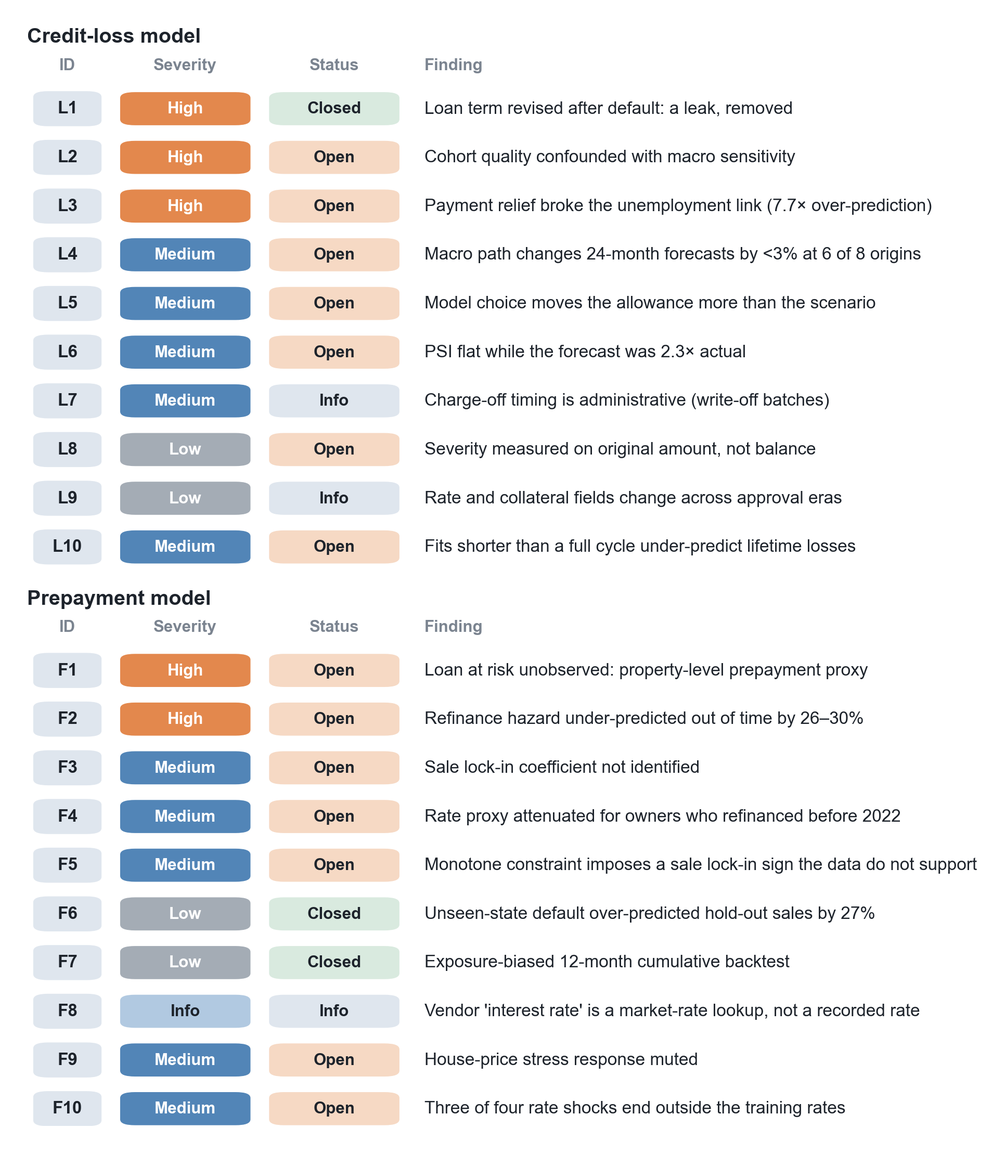
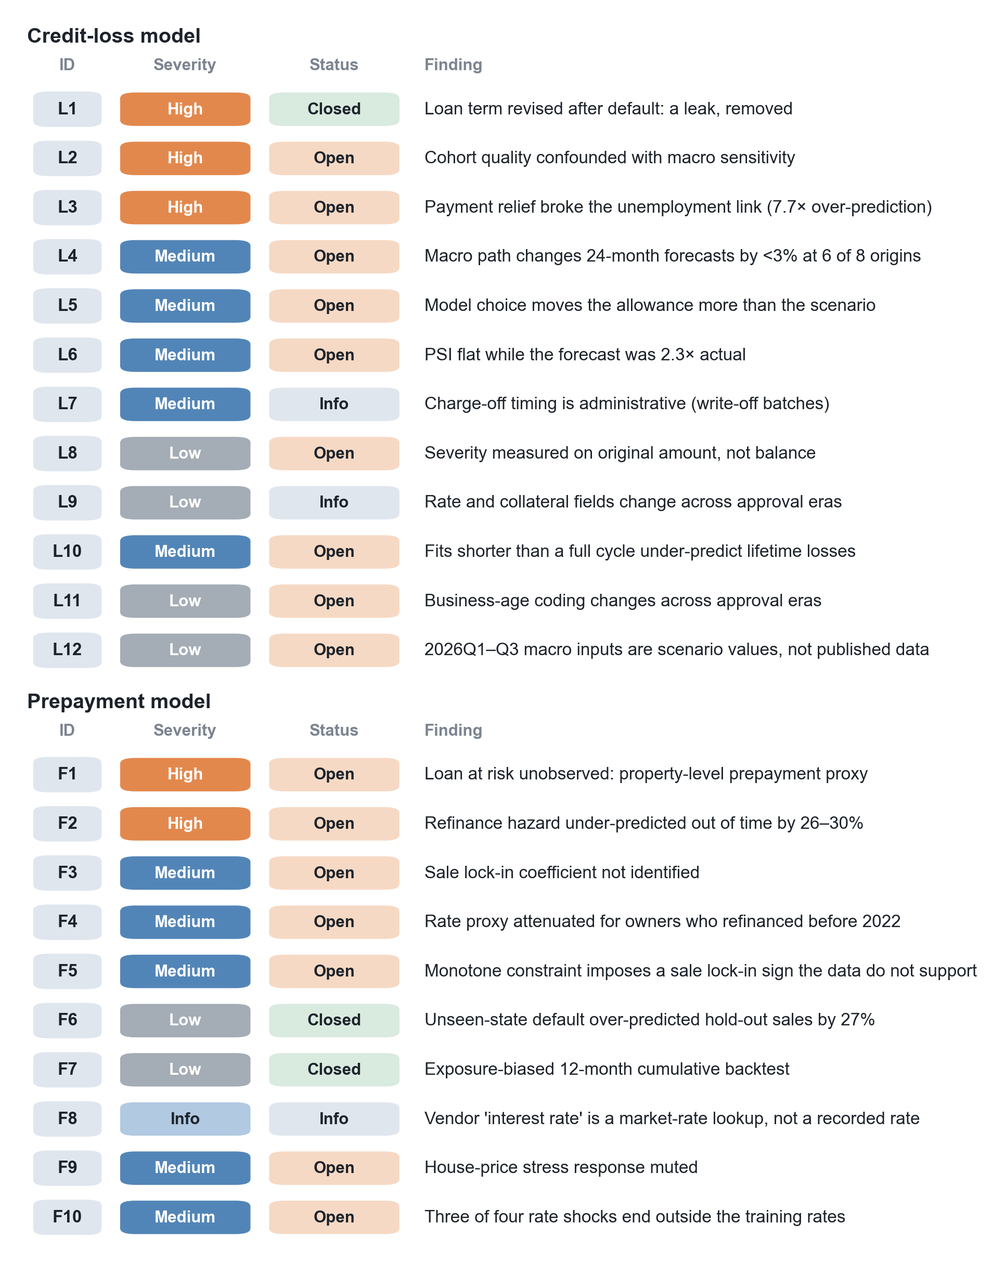
Credit-loss study: rule outcomes across candidates, relief-overlay scope, two new findings
- README and report: out-of-time ratio reported across candidates (0.72-0.83; era model 0.81 with
  the relief overlay, 0.74 without), and that no single candidate meets both pre-set rules
- Report: overlay O1 also shifts inputs to 2023Q3 and uses hindsight at the 2019 origin; sampling
  design behind the intercept correction; gross write-offs; disposition: research use only
- New findings L11 (business-age coding changes across approval eras) and L12 (2026Q1-Q3 macro
  inputs are scenario values), from scripts/42e_p3_input_checks.py; deviations log notes
- Tests for the new statements; Figure 9 redrawn with twelve credit-loss findings

Changed region(s): [[0.0311, 0.0, 0.9627, 0.995], [0.8075, 0.9329, 0.8385, 0.9639], [0.7143, 0.9329, 0.7453, 0.9639]]

diff --git a/tests/test_credit_loss.py b/tests/test_credit_loss.py
@@ -100,6 +100,16 @@ def test_remediation_rounds_as_reported():
     assert s2["M1v +O1"]["within_25pct"] == 4 and s2["M1v +O1"]["oot_excl_relief"] == pytest.approx(0.81, abs=0.005)
     assert s2["R2a +O1"]["within_25pct"] == 5 and s2["R2a +O1"]["oot_excl_relief"] == pytest.approx(0.73, abs=0.005)
     assert s2["M1v +O1"]["mean_abs_log_ratio"] == pytest.approx(0.357, abs=5e-4)
+    # no single candidate meets both rules
+    assert not any(v["rule_i"] and v["rule_ii"] for k, v in s2.items() if isinstance(v, dict) and "rule_i" in v)
+    with_o1 = [v["oot_excl_relief"] for k, v in s2.items() if k.endswith("+O1")]
+    assert min(with_o1) == pytest.approx(0.72, abs=0.005) and max(with_o1) == pytest.approx(0.83, abs=0.005)
+    assert s2["M1v"]["oot_excl_relief"] == pytest.approx(0.74, abs=0.005)  # same fit without O1: the gap is the overlay
+    m1 = json.loads((P3 / "backtest_summary.json").read_text())["M1"]["mean_abs_log_ratio"]
+    assert m1 == pytest.approx(0.68, abs=0.005) and s2["R2a +O1"]["mean_abs_log_ratio"] / m1 < 0.5
+    oot = _csv("r2_oot_eval.csv")
+    whole = oot[oot.overlay & (oot.model == "M1v") & (oot.window == "2020-01..2026-09")].pred_over_actual.iloc[0]
+    assert whole == pytest.approx(0.91, abs=0.005)
     s3 = json.loads((P3 / "r3_summary.json").read_text())
     assert s3["adopted_for_lifetime_allowance"] is None
     assert [s3[m]["within_25pct"] for m in ("M0", "M1", "M1v", "R2a", "R2b")] == [2, 0, 3, 3, 4]
@@ -108,6 +118,25 @@ def test_remediation_rounds_as_reported():
     assert late.min() == pytest.approx(0.94, abs=0.005) and late.max() == pytest.approx(1.22, abs=0.005)
     early = lt[lt.origin.isin(["2009-12", "2011-12", "2013-12"]) & lt.model.isin(["M1", "M1v", "R2a", "R2b"])].dollar_ratio
     assert (early < 0.7).sum() == 11
+
+
+def test_input_checks_added_at_review():
+    """L11: business-age coding by approval year; L12: 2026Q1-Q3 scenario inputs against published series."""
+    b = _csv("business_age_by_approval_fy.csv").set_index("approval_fy")
+    assert b.loc[2000:2004, "startup"].max() < 0.01 and b.loc[2012:, "startup"].min() == pytest.approx(0.176, abs=5e-4)
+    assert b.loc[2012:, "startup"].max() == pytest.approx(0.215, abs=5e-4)
+    assert b.loc[2000:2008, "new"].min() == pytest.approx(0.236, abs=5e-4) and b.loc[2000:2008, "new"].max() == pytest.approx(0.311, abs=5e-4)
+    assert b.loc[2019, "new"] == 0 and b.loc[2021:, "new"].min() == pytest.approx(0.130, abs=5e-4) and b.loc[2021:, "new"].max() == pytest.approx(0.180, abs=5e-4)
+    assert b.loc[2018, "unknown"] == pytest.approx(0.118, abs=5e-4) and b.loc[2019, "unknown"] == pytest.approx(0.136, abs=5e-4)
+    assert b.loc[2021:, "unknown"].max() < 0.01
+    m = _csv("macro_2026_scenario_vs_published.csv").set_index(["source", "quarter"])
+    assert (m.loc["fed_baseline", "unemployment"] == 4.6).all()
+    pub = m.loc["published_fred"]
+    assert pub.unemployment.min() == pytest.approx(4.13, abs=0.005) and pub.unemployment.max() == pytest.approx(4.33, abs=0.005)
+    assert m.loc["fed_baseline", "prime"].min() == 6.2 and m.loc["fed_baseline", "prime"].max() == 6.6
+    assert pub.prime.round(1).unique().tolist() == [6.8]
+    sa = m.loc["fed_severely_adverse", "unemployment"]
+    assert sa.min() == 5.9 and sa.max() == 8.2
 
 
 def test_allowance_after_remediation():

diff --git a/scripts/42e_p3_input_checks.py b/scripts/42e_p3_input_checks.py
@@ -1,0 +1,39 @@
+"""Credit-loss study: two input checks added at review (findings L11 and L12); no model is refitted.
+
+L11  business-age categories by approval fiscal year (the coding changes across eras, and the field is a predictor).
+L12  macro inputs for 2026Q1-Q3: the Fed 2026 files end their history in 2025Q4, so these quarters carry scenario
+     values inside the estimation window; compared here with the published series (FRED UNRATE, DPRIME, DGS10).
+Writes reports/p3/business_age_by_approval_fy.csv and reports/p3/macro_2026_scenario_vs_published.csv.
+"""
+import sys; sys.path.insert(0, "scripts"); sys.path.insert(0, "src")
+from pathlib import Path
+import pandas as pd
+from _paths import WORK, REPORTS
+
+R = REPORTS / "p3"
+loans = pd.read_parquet(WORK / "p3" / "loans.parquet", columns=["approval_fy", "bage"])
+t = pd.crosstab(loans.approval_fy, loans.bage, normalize="index").round(3)
+t.insert(0, "loans", loans.approval_fy.value_counts().sort_index())
+t.to_csv(R / "business_age_by_approval_fy.csv")
+
+FED, FRED = Path("data_external/fed2026"), Path("data_external/fred_credit")
+rows = []
+for scen, f in [("baseline", "2026_Final_Supervisory_Baseline_Domestic.csv"),
+                ("severely_adverse", "2026_Final_Supervisory_Severely_Adverse_Domestic.csv")]:
+    d = pd.read_csv(FED / f)
+    d = d[d.Date.isin(["2026 Q1", "2026 Q2", "2026 Q3"])]
+    for _, r in d.iterrows():
+        rows.append({"quarter": r.Date.replace(" ", ""), "source": f"fed_{scen}", "unemployment": r["Unemployment rate"],
+                     "prime": r["Prime rate"], "treasury_10y": r["10-year Treasury yield"]})
+pub = {}
+for sid, col in [("UNRATE", "unemployment"), ("DPRIME", "prime"), ("DGS10", "treasury_10y")]:
+    s = pd.read_csv(FRED / f"{sid}.csv"); s.columns = ["date", "v"]
+    s["v"] = pd.to_numeric(s.v, errors="coerce"); s["date"] = pd.to_datetime(s.date)
+    s = s[(s.date >= "2026-01-01") & (s.date < "2026-10-01")]
+    pub[col] = s.groupby(s.date.dt.to_period("Q")).v.mean().round(2)
+p = pd.DataFrame(pub); p.index = p.index.astype(str)
+for q, r in p.iterrows():
+    rows.append({"quarter": q, "source": "published_fred", **r.to_dict()})
+out = pd.DataFrame(rows).sort_values(["quarter", "source"])
+out.to_csv(R / "macro_2026_scenario_vs_published.csv", index=False)
+print(t.to_string()); print(out.to_string(index=False))

diff --git a/figures/make_figures.py b/figures/make_figures.py
@@ -559,7 +559,9 @@ SHORT_L = {"L1": "Loan term revised after default: a leak, removed",
            "L7": "Charge-off timing is administrative (write-off batches)",
            "L8": "Severity measured on original amount, not balance",
            "L9": "Rate and collateral fields change across approval eras",
-           "L10": "Fits shorter than a full cycle under-predict lifetime losses"}
+           "L10": "Fits shorter than a full cycle under-predict lifetime losses",
+           "L11": "Business-age coding changes across approval eras",
+           "L12": "2026Q1–Q3 macro inputs are scenario values, not published data"}
 
 
 def p_findings(ax, doc_name, start, end, short, title):
@@ -649,7 +651,7 @@ def figure8():
 
 
 def figure9():
-    fig, ax = plt.subplots(2, 1, figsize=(7.6, 7.2), dpi=300, layout="constrained", gridspec_kw=dict(height_ratios=[10.6, 10.6]))
+    fig, ax = plt.subplots(2, 1, figsize=(7.6, 7.9), dpi=300, layout="constrained", gridspec_kw=dict(height_ratios=[len(SHORT_L) + 0.7, len(SHORT_P) + 0.7]))
     p_findings(ax[0], "credit_loss_cecl_validation.md", "## 12. Findings log", "## 13.", SHORT_L, "Credit-loss model")
     p_findings(ax[1], "prepayment_model_development_and_validation.md", "## 7. Findings log", "## 8.", SHORT_P, "Prepayment model")
     save(fig, "figures/figure9.png")

diff --git a/docs/credit_loss_cecl_validation.md b/docs/credit_loss_cecl_validation.md
@@ -33,7 +33,7 @@ charge-off date and charge-off amount (`reports/p3/data_profile.json`).
 | Term loans, final status paid / charged off / active, disbursed, 50 states and DC | 994,992 |
 | At risk in the window 2006-01..2026-09 | 919,479 (115,117 charged off, 572,070 paid off, 232,292 active) |
 
-Four properties of the data decide what can be modelled. Each is in the findings log (§12).
+Five properties of the data decide what can be modelled. Each is in the findings log (§12).
 
 - **The recorded term is revised after a loan runs into trouble (L1).** 90% of charged-off loans have a term that is
   not a multiple of 12, against 10% of loans cancelled before disbursement (which keep their approved terms), 16% of
@@ -49,6 +49,10 @@ Four properties of the data decide what can be modelled. Each is in the findings
   surrounding 13-month median (`chargeoff_batch_months.csv`).
 - **Two fields change meaning across approval eras (L9).** The interest rate is missing for 94.5% of loans approved
   FY2000–FY2009 and the collateral flag's share of "Y" rises from 15% to 82–89%. Neither is used.
+- **Business-age categories are coded differently across approval eras (L11).** "Startup" is under 1% of loans
+  before FY2005 and 18–22% from FY2012; "new" is 24–31% through FY2008, 0% in FY2019 and 13–18% from FY2021;
+  "unknown" is 12–14% in FY2018–19 and under 1% from FY2021 (`business_age_by_approval_fy.csv`). The field is a
+  predictor in every model, so part of what its effects measure is approval era.
 
 The annual charge-off rate of loans at risk peaks at 7.4% in 2010 and runs at 1.0–1.3% a year from 2019 to 2025
 (`annual_chargeoffs.csv`).
@@ -56,7 +60,9 @@ The annual charge-off rate of loans at risk peaks at 7.4% in 2010 and runs at 1.
 ## 3. Models
 
 Unit: loan-month, 52,141,481 at risk. All charge-off and payoff months are kept with 5% of the other months; the
-logit intercept is corrected by log 0.05 and evaluation weights non-events by 20.
+logit intercept is corrected by log 0.05 and evaluation weights non-events by 20. The 5% is drawn from all
+loan-months by a deterministic hash, so each cause-specific model samples its non-events, including months in which
+the competing event occurred, at the same rate, which is what the correction assumes (`scripts/41_p3_panel.py`).
 
 | Model | Charge-off and payoff hazards |
 |---|---|
@@ -151,6 +157,13 @@ in which SBA made the payments. With it, the era model's forecast for April 2020
 1.6 times actual (`r2_backtest_monthly.csv`). O1 is a documented qualitative adjustment, not an estimate, and
 results without it are reported beside it.
 
+Two properties of O1 limit how its results can be read. First, the levels are held before the 4-quarter change is
+computed, so O1 also changes the unemployment change for 2021Q4–2022Q3 (measured against the held levels) and,
+through the 12-month lag, charge-off inputs until 2023Q3. Outside the relief months its net effect raises the era
+model's out-of-time predicted ÷ actual from 0.74 to 0.81 (`r2_oot_eval.csv`), so M1v + O1 meets the 0.80–1.25 rule
+because of the overlay. Second, a forecaster at 2019-12 did not know the relief programme; the 2019-origin results
+with O1 are a policy-hindsight sensitivity, not a forecast that could have been made.
+
 ## 8. Severity
 
 Charge-off dollars over original amount, by charge-off year, range from 0.58 (2017–2019) to 0.70 (2010)
@@ -165,8 +178,8 @@ charge-off hazard. Severity is measured against the original amount because the 
 Book: 232,292 active loans, $162.2bn approved, $128.2bn estimated outstanding (level-payment schedule from the
 recorded rate and term). Final models fitted on 2006-01..2026-09. Horizon: each loan's remaining recorded term (at
 least 12 months). Scenarios: Fed 2026 baseline and severely adverse from their 2026Q1 start to 2029Q1, then
-reversion over four quarters to the 2006–2025 average (deviation D3). Lifetime loss over estimated balance
-(`cecl_allowance.csv`):
+reversion over four quarters to the 2006–2025 average (deviation D3). The estimate is of gross charge-off dollars as
+SBA records them, before recoveries. Lifetime loss over estimated balance (`cecl_allowance.csv`):
 
 | Model | Baseline | Severely adverse | Severe − baseline |
 |---|---|---|---|
@@ -183,7 +196,15 @@ reversion over four quarters to the 2006–2025 average (deviation D3). Lifetime
 - **How much the scenario matters is itself a model choice.** M1, whose unemployment coefficient carries cohort
   quality (§5), adds 2.7 points under the severely adverse path; M1v adds 0.7.
 - **Lender's share.** Losses are shared pro rata with SBA, so the lender's retained loss is the same percentage of
-  its retained balance (M1v baseline $1.03bn of $4.32bn in total).
+  its retained balance (M1v baseline $1.03bn of $4.32bn in total). This applies the guarantee percentage
+  mechanically; a lender's allowance would also need its actual exposure and contract terms, expected recoveries and
+  the accounting for the guarantee it holds.
+- **Macro inputs for 2026Q1–Q3 (L12).** The Fed 2026 files end their history in 2025Q4, so in the estimation window
+  2026Q1–Q3 carry baseline-scenario values (unemployment 4.6% against a published 4.1–4.3%; prime 6.2–6.6% against
+  6.8%; `macro_2026_scenario_vs_published.csv`), which enter the payoff hazard directly. In the projection, each
+  scenario runs from its own 2026Q1 start, so its 2026Q1–Q3 values (severely adverse: unemployment 5.9–8.2%)
+  reach the charge-off hazard of 2027 through the 12-month lag. The estimates have not been re-run with published
+  values for those quarters.
 - **Horizon.** Allowing 24 months beyond the recorded term for charge-offs posted after maturity adds 0.25 points
   (M1v) to 0.46 points (M1) under the baseline.
 - **After remediation.** With approval eras and the relief overlay, the candidates put lifetime loss at 3.4% (M1v),
@@ -223,8 +244,12 @@ Lifetime-to-date predicted ÷ actual charge-off dollars (`r3_lifetime_backtest.c
 | 2019-12 | 3.14 | 2.24 | 1.03 | 0.94 | 1.09 |
 
 - **What the remediation fixed.** Out of time, outside the relief months, predicted ÷ actual moves from 1.75 for the
-  champion to 0.81 (0.84 with downturn exposure), and over the whole window from 2.79 to 0.91; the typical 24-month
-  backtest error halves; the 24-month forecast from 2019-12 falls from 7.2 to 1.6 times actual.
+  champion to 0.72–0.83 across the second-round candidates with O1 (M1v 0.81, or 0.74 without O1; §7), and over the
+  whole window from 2.79 to 0.91 for M1v + O1; the typical 24-month backtest error halves (mean absolute log ratio
+  from 0.68 to 0.33 for R2a + O1 and 0.36 for M1v + O1); the 24-month forecast from 2019-12 falls from 7.2 to 1.6
+  times actual.
+- **No candidate meets both rules.** M1v + O1 and R2b + O1 meet the out-of-time rule but reach 4 of 8 backtest
+  origins; R2a + O1 has the best backtest (5 of 8) but is at 0.73 out of time.
 - **Where it holds.** Once the fit covers the crisis and the recovery (origins 2015, 2017, 2019), all three
   remediated models are within ±25% of the book's lifetime losses at every origin, where the champion overstates them
   1.8–2.5 times and the lookup 2.5–3.4 times.
@@ -241,7 +266,7 @@ Lifetime-to-date predicted ÷ actual charge-off dollars (`r3_lifetime_backtest.c
 | # | Severity | Status | Finding | Use limit or remediation |
 |---|---|---|---|---|
 | L1 | High | Closed | Recorded term revised after default; any term-based feature leaks the outcome (challenger AUC 0.935 with it, 0.737 without) | Term not used as a predictor or for censoring |
-| L2 | High | Open | Cohort quality is confounded with macro sensitivity: in-sample predicted ÷ actual 0.69–0.77 for FY2006–07 loans and 1.28–2.34 for FY2009–18; out of time 2.8 | Era effects halve the unemployment coefficient and bring the level to 0.81; three rounds, no pre-set rule met (§11) |
+| L2 | High | Open | Cohort quality is confounded with macro sensitivity: in-sample predicted ÷ actual 0.69–0.77 for FY2006–07 loans and 1.28–2.34 for FY2009–18; out of time 2.8 | Era effects halve the unemployment coefficient and bring the level to 0.74 (0.81 with O1); three rounds, no pre-set rule met (§11) |
 | L3 | High | Open | Payment relief in 2020–21: 7.7-fold over-prediction with the realised macro path | Overlay O1 (documented, not estimated) brings the era model to 1.6 times |
 | L4 | Medium | Open | The macro path changes 24-month forecasts by less than 3% at six of eight origins; helps once (2009), hurts once (2019) | Scenario-conditioned forecasts are assumptions more than estimates |
 | L5 | Medium | Open | Model choice moves the lifetime estimate (3.4%–6.6% of balance, baseline; 3.4%–4.4% across remediated models) more than the scenario (+0.1 to +2.7 points) | Report the allowance as a range across models, not as one model's number |
@@ -250,9 +275,13 @@ Lifetime-to-date predicted ÷ actual charge-off dollars (`r3_lifetime_backtest.c
 | L8 | Low | Open | Severity measured on original amount, not balance | Needs balance data |
 | L9 | Low | Info | Interest rate missing FY2000–09; collateral flag recording changes | Not used |
 | L10 | Medium | Open | Fitted on four to eight years, the logits under-predict the book's lifetime losses in 11 of 12 model-origin pairs (0.30–0.69 at the 2009–2013 origins) | Fit on at least one full credit cycle before use for an allowance |
+| L11 | Low | Open | Business-age categories are coded differently across approval eras ("new" 24–31% to FY2008, 0% in FY2019; "unknown" 12–14% in FY2018–19) | Read business-age effects as partly era effects; test the models without the field |
+| L12 | Low | Open | 2026Q1–Q3 macro inputs are scenario values, not published data (unemployment 4.6% against 4.1–4.3%) | Re-run with published values for elapsed quarters |
 
 ## 13. Use limits and limitations
 
+- **Disposition.** Research and benchmark use only. No candidate met the pre-set rules, so none is approved for an
+  allowance; the outputs are expected gross SBA write-offs under stated scenarios, not a lender's allowance.
 - **Use.** The models rank loans by charge-off risk with modest discrimination (out-of-time AUC 0.68–0.74). For a
   lifetime allowance, the era model with the relief overlay is within ±25% of lifetime losses once it is fitted on a
   full cycle; it is not fit for 24-month forecasts, and its scenario sensitivity should be read as a model assumption.

diff --git a/README.md b/README.md
@@ -59,7 +59,7 @@ losses came from loans approved just before it. Adding approval-era effects halv
 from 0.215 to 0.103: about half of what the model read as sensitivity to the economy was the quality of the loans on
 the books.
 
-<sub><b>Methods.</b> SBA 7(a) term loans, FY2000 onward, as of 2026-09-30: 919,479 loans and 52,141,481 loan-months at risk in 2006-01 to 2026-09 (115,117 charge-offs, 572,070 payoffs). Cause-specific discrete-time hazards for charge-off and payoff on all events and 5% of other months, intercept corrected; fit 2006–2017, validation 2018–2019, out of time 2020-01 to 2026-09; nine hold-out states. Plan hashed before fitting; four documented deviations, including the removal of the term (<a href="docs/credit_loss_deviations.md">deviations</a>).</sub>
+<sub><b>Methods.</b> SBA 7(a) term loans, FY2000 onward, as of 2026-09-30: 919,479 loans and 52,141,481 loan-months at risk in 2006-01 to 2026-09 (115,117 charge-offs, 572,070 payoffs). Cause-specific discrete-time hazards for charge-off and payoff on all events and 5% of other months, intercept corrected; fit 2006–2017, validation 2018–2019, out of time 2020-01 to 2026-09; nine hold-out states. Plan hashed before fitting; six documented deviations, including the removal of the term and three remediation rounds (<a href="docs/credit_loss_deviations.md">deviations</a>).</sub>
 
 ## 2. Three rounds of fixes halved the forecast error, and lifetime losses hold once the model has seen a full cycle.
 
@@ -76,9 +76,12 @@ SBA made borrowers' loan payments ([report, §6–7](docs/credit_loss_cecl_valid
 Three rounds of fixes followed, each with its pass rule written down before it ran
 ([deviations D4–D6](docs/credit_loss_deviations.md)): approval-era effects, trailing recalibration, a term for loans
 still in the default pipeline after a downturn, and a documented overlay that treats the payment-relief quarters as
-absorbing the 2020 shock. Together they bring out-of-time predicted ÷ actual from 1.75 to 0.81 outside the relief
-months, halve the typical 24-month error and cut the 2019-origin forecast from 7.2 to 1.6 times actual. The 24-month
-rule (six of eight origins within ±25%) is still not met: the best model reaches five. The remaining misses alternate
+absorbing the 2020 shock. Outside the relief months, out-of-time predicted ÷ actual moves from 1.75 to 0.72–0.83
+across the candidates (0.81 for the era model with the overlay, 0.74 without it, because the overlay also shifts
+2022–23 inputs). The best candidate halves the typical 24-month error, and with the overlay, which uses hindsight
+about the relief programme, the 2019-origin forecast falls from 7.2 to 1.6 times actual. No candidate meets both
+pre-set rules: the era model meets the out-of-time rule but is within ±25% at four of eight origins, and the best
+backtest (five of eight, against six required) comes from a model at 0.73 out of time. The remaining misses alternate
 in sign at 2011, 2013 and 2015, when SBA wrote off crisis-era loans during an expansion, a schedule no input at the
 origin can predict.
 
@@ -174,9 +177,9 @@ a PSI endpoint and 19 tests ([`service/`](service)).
 
 <sub><b>Methods.</b> 2,418,184 arm's-length resales (2022-05 to 2025-08, 49 states and DC); training to 2024-03, calibration 2024-04 to 06. Hedonic OLS, LightGBM on 33 features, a PyTorch neighbour-attention network over the 32 nearest comparable sales, and their equal-weight blend (added after calibration-window results). Split-conformal intervals; county-cluster bootstrap; PSI against the calibration window.</sub>
 
-## 7. Twenty findings, fourteen still open: the use limits.
+## 7. Twenty-two findings, sixteen still open: the use limits.
 
-<img src="figures/figure9.png" alt="Two tables: the nine findings of the credit-loss model and the ten findings of the prepayment model, with severity and status." width="100%">
+<img src="figures/figure9.png" alt="Two tables: the twelve findings of the credit-loss model and the ten findings of the prepayment model, with severity and status." width="100%">
 
 **Figure 9. Findings logs of the credit-loss and prepayment models.** *Notes:* Severity and status are read from the findings logs of the two reports ([credit loss, §12](docs/credit_loss_cecl_validation.md#12-findings-log); [prepayment, §7](docs/prepayment_model_development_and_validation.md#7-findings-log)), which give the evidence and remediation for each finding; the labels are shortened.
 
@@ -205,7 +208,7 @@ What follows for use:
 
 | Study | Question | Report | Code |
 |---|---|---|---|
-| Credit loss and lifetime expected loss | When are small-business loans written off, how much is lost, and does a scenario-based lifetime loss estimate hold up out of time? | [validation report](docs/credit_loss_cecl_validation.md), [plan](docs/credit_loss_plan.md), [deviations](docs/credit_loss_deviations.md) | `scripts/40`–`44` |
+| Credit loss and lifetime expected loss | When are small-business loans written off, how much is lost, and does a scenario-based lifetime loss estimate hold up out of time? | [validation report](docs/credit_loss_cecl_validation.md), [plan](docs/credit_loss_plan.md), [deviations](docs/credit_loss_deviations.md) | `scripts/40`–`47` |
 | Prepayment hazard model | How fast do homes terminate their mortgage through sale or refinance in 2022–25, and how far can a model of it be trusted out of time, out of state and under stress? | [development and validation](docs/prepayment_model_development_and_validation.md) | `scripts/04`–`09`, `16`, `17`, `21`, `22` |
 | Remediation of two prepayment findings | Can the two most consequential open findings be closed under rules fixed before any refit? | [plan](docs/prepayment_model_remediation_plan.md); §9 of the report | `scripts/31`–`33` |
 | Home-valuation models | How accurate, current and even-handed are vendor home values against recorded sale prices, and can a challenger beat them out of time and out of geography? | [champion–challenger validation](docs/avm_champion_challenger_validation.md) | `scripts/10`–`15`, `23`, `24`; `service/` |

diff --git a/docs/credit_loss_deviations.md b/docs/credit_loss_deviations.md
@@ -147,3 +147,19 @@ model-origin pairs (R2b at 2009 is the exception). **Validator's
 recommendation (outside the pre-set adoption rule, labelled as such):** use M1v with O1 for the lifetime allowance
 only when it is fitted on at least one full credit cycle, report the range across M1v, R2a and R2b, and do not use it
 for 24-month or quarterly charge-off forecasts. The vintage finding stays open.
+
+## Review notes (2026-11-18): checks after the three rounds; no model refitted, no result changed
+
+- **Sampling design.** The 5% of non-event months is drawn from all loan-months by one hash, so each cause-specific
+  fit samples its non-events, including months with the competing event, at the same rate; the log 0.05 intercept
+  correction is the right one for that design (`scripts/41_p3_panel.py`).
+- **Reach of overlay O1.** Holding the levels before differencing (as D5 specifies) also changes the 4-quarter
+  unemployment change for 2021Q4–2022Q3 and, through the 12-month lag, charge-off inputs until 2023Q3. For M1v,
+  out-of-time predicted ÷ actual outside the relief months is 0.74 without O1 and 0.81 with it (`r2_oot_eval.csv`), so
+  its rule (i) result depends on the overlay. Results at the 2019-12 origin with O1 use knowledge of the relief
+  programme that was not available then; they are reported as a policy-hindsight sensitivity.
+- **L11.** Business-age categories are coded differently across approval eras (`scripts/42e_p3_input_checks.py`,
+  `business_age_by_approval_fy.csv`).
+- **L12.** The Fed files end their history in 2025Q4, so 2026Q1–Q3 carry scenario values in the estimation window
+  and in each projection (`macro_2026_scenario_vs_published.csv`). Not re-run.
+- **Disposition.** Research and benchmark use only; outputs are expected gross SBA write-offs under stated scenarios.
